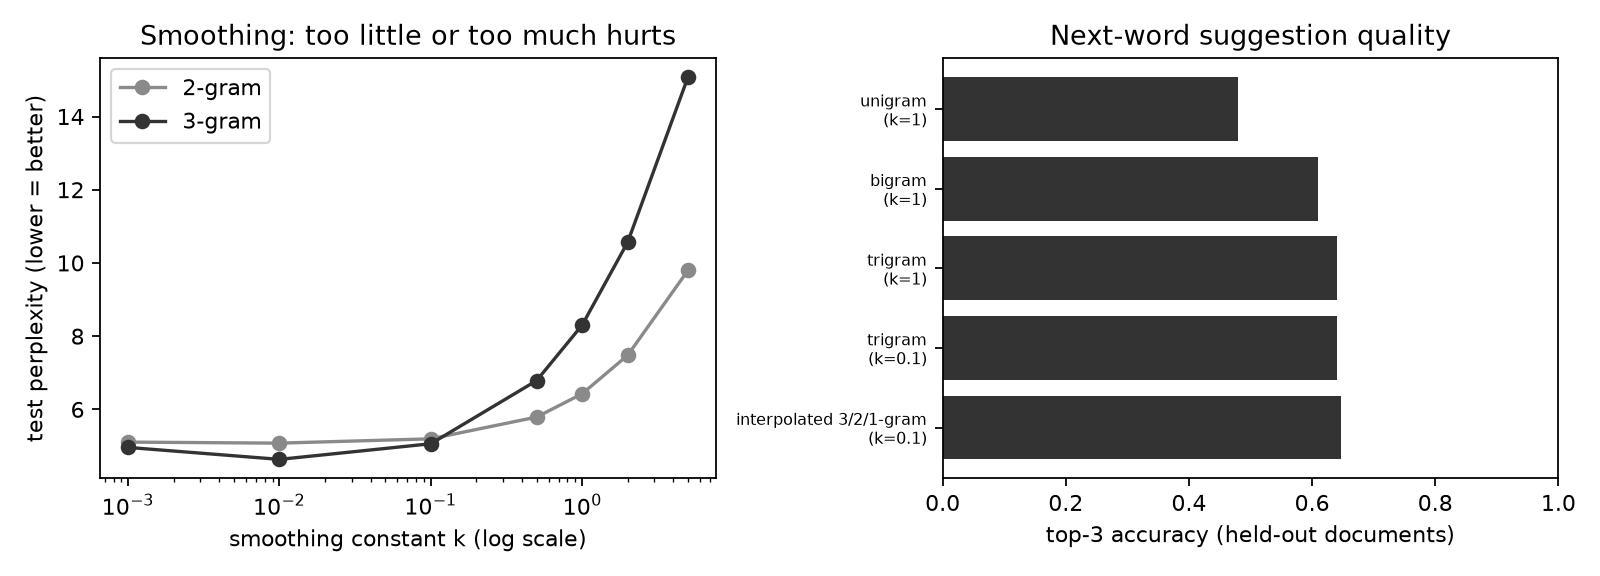
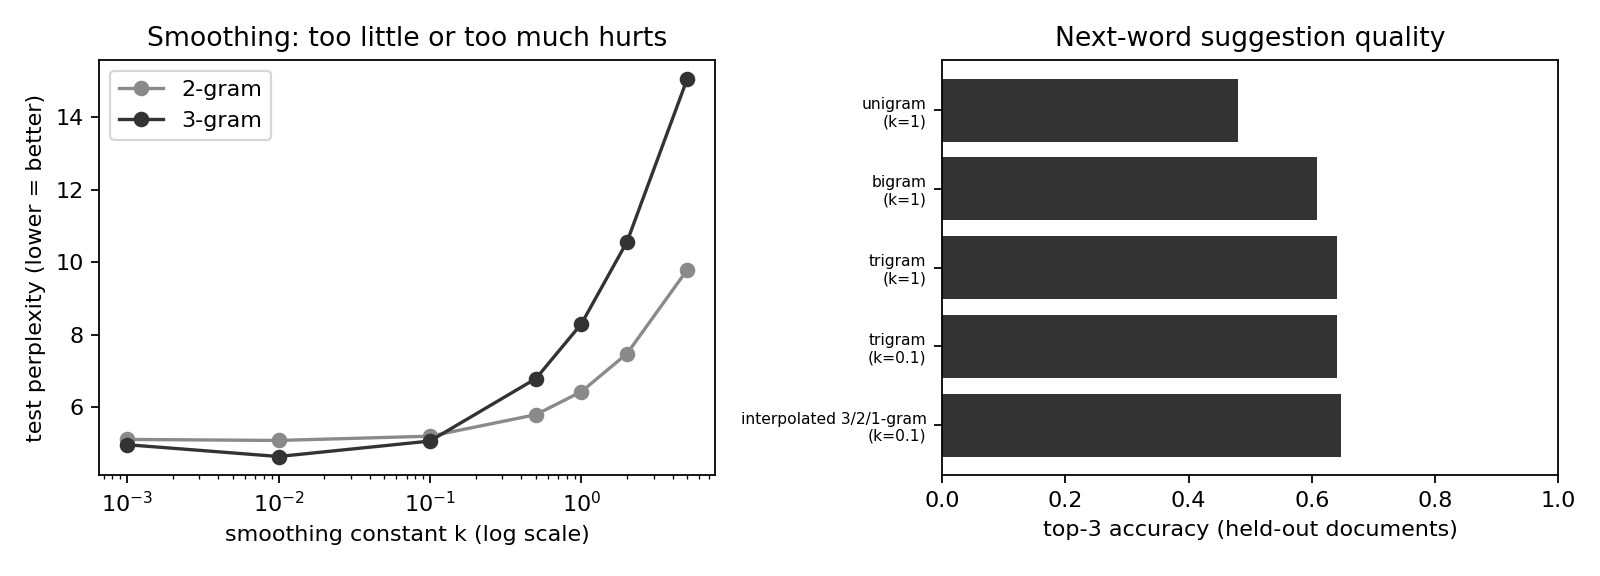
Clarify cloud privacy and refresh evaluation chart

diff --git a/README.md b/README.md
@@ -4,7 +4,7 @@ A small Streamlit app that suggests the next word with an n-gram language model.
 
 ## Data and limitations
 
-The corpus is synthetic, generated from a fixed-seed grammar. Its language is much more regular than real English, so perplexities are low. It has semantic groups (animals, foods, people, places, and objects) and part-of-speech tags for the related lab; `watch` is intentionally ambiguous as a noun and a verb. The current language model uses the sentence text and does not use the tags. The corpus is safe to share and the app runs locally without sending typed text to a server.
+The corpus is synthetic, generated from a fixed-seed grammar. Its language is much more regular than real English, so perplexities are low. It has semantic groups (animals, foods, people, places, and objects) and part-of-speech tags for the related lab; `watch` is intentionally ambiguous as a noun and a verb. The current language model uses the sentence text and does not use the tags. The corpus is safe to share. When run locally, the app processes typed text on your computer. The deployed Streamlit Community Cloud app processes typed text on Streamlit's servers, so do not enter private text there.
 
 ## Run locally
 
